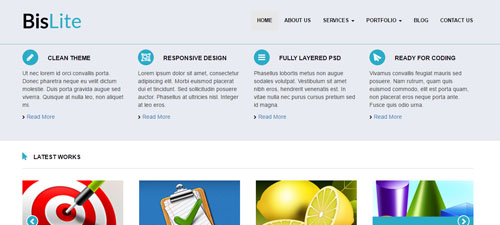
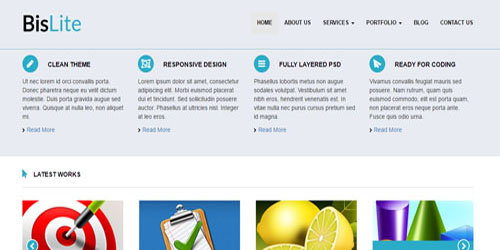
Restyle portfolio section and images

diff --git a/index.html b/index.html
@@ -30,7 +30,7 @@
             <span class="icon-bar"></span>
             <span class="icon-bar"></span>
           </button>
-          <a class="navbar-brand" href="#"><i class="color-red ion-asterisk"></i> Carolina Knoll</a>
+          <a class="navbar-brand" href="#"><i class="color-red fa fa-asterisk"></i> Carolina Knoll</a>
         </div>
 
         <!-- Collect the nav links, forms, and other content for toggling -->
@@ -61,7 +61,7 @@
 
     <section class="about" id="about">
       <div class="container">
-        <h2 class="section-title" data-sr="wait 0.1s, then enter bottom and hustle 50px over 2s"><i class="color-red ion-asterisk"></i> About me</h2>
+        <h2 class="section-title" data-sr="wait 0.1s, then enter bottom and hustle 50px over 2s"><i class="color-red fa fa-asterisk"></i> About me</h2>
 
         <div class="row">
           <div class="col-xs-12 col-sm-4 col-md-4">
@@ -172,7 +172,7 @@
 
     <section class="portfolio" id="portfolio">
       <div class="container">
-        <h2 class="section-title" data-sr="wait 0.1s, then enter bottom and hustle 50px over 2s"><i class="color-red ion-asterisk"></i> My projects</h2>
+        <h2 class="section-title" data-sr="wait 0.1s, then enter bottom and hustle 50px over 2s"><i class="fa fa-asterisk"></i> My projects</h2>
         <p class="section-subtitle text-center" data-sr="wait 0.3s, then enter bottom and hustle 50px over 2s">I'm always trying to improve, and to discover creative and awesome ideas.</p>
         <p class="section-subtitle text-center" data-sr="wait 0.5s, then enter bottom and hustle 50px over 2s">Please take a look at my projects, and check out how we can be creative together.</p>
 
@@ -181,21 +181,21 @@
             <div class="column col-xs-12 col-sm-6 col-md-6" data-sr="wait 0.2s, then enter bottom and hustle 50px over 2s, with opacity 0.5">
               <div class="portfolio-block">
                 <div class="portfolio-image">
-                  <img class="img-responsive" src="img/bislite-project.png" width="500" height="225">
+                  <img class="img-responsive" src="img/bislite-project.jpg" width="500" height="225">
                 </div>
                 <div class="portfolio-title">
-                  <p><i class="color-red ion-asterisk"></i> BisLite - Clean, crisp &amp; memorable icons!</p>
+                  <p><i class="fa fa-asterisk"></i> BisLite - Clean, crisp &amp; memorable icons.</p>
                 </div>
                 <div class="portfolio-description">
-                  <p><i class="color-red ion-paintbucket"></i> PSD template to mobile-first code.</p>
+                  <p><i class="fa fa-edit"></i> PSD template to mobile-first code.</p>
                 </div>
                 <div class="portfolio-tags">
-                  <p><i class="color-red ion-wrench"></i> HTML/SCSS, Bootstrap, OwlCarousel, JavaScript.</p>
+                  <p><i class="fa fa-cogs"></i> HTML/CSS, Bootstrap, OwlCarousel, JavaScript.</p>
                 </div>
                 <div class="portfolio-links">
 
                   <a href="https://github.com/carolinaknoll/bislite" class="view-code">
-                    <p><i class="color-red ion-code"></i> View code (work in progress)</p></a>
+                    <p><i class="fa fa-code"></i> View code (work in progress)</p></a>
                 </div>
               </div>
             </div>
@@ -203,23 +203,23 @@
             <div class="column col-xs-12 col-sm-6 col-md-6" data-sr="wait 0.4s, then enter bottom and hustle 50px over 2s, with opacity 0.5">
               <div class="portfolio-block">
                 <div class="portfolio-image">
-                  <img class="img-responsive" src="img/insight-project.png" width="500" height="225">
+                  <img class="img-responsive" src="img/insight-project.jpg" width="500" height="225">
                 </div>
                 <div class="portfolio-title">
-                  <p><i class="color-red ion-asterisk"></i> Insight - Follow your dreams.</p>
+                  <p><i class="fa fa-asterisk"></i> Insight - Follow your dreams.</p>
                 </div>
 
                 <div class="portfolio-description">
-                  <p><i class="color-red ion-paintbucket"></i> PSD template to desktop-first code.</p>
+                  <p><i class="fa fa-edit"></i> PSD template to desktop-first code.</p>
                 </div>
                 <div class="portfolio-tags">
-                  <p><i class="color-red ion-wrench"></i> HTML/CSS, JavaScript.</p>
+                  <p><i class="fa fa-cogs"></i> HTML/CSS, JavaScript.</p>
                 </div>
                 <div class="portfolio-links">
                   <a href="http://carolinaknoll.github.io/insight/" class="visit-project">
-                    <p><i class="color-red ion-wand"></i> Visit project</p></a>
+                    <p><i class="fa fa-search-plus"></i> Visit project</p></a>
                   <a href="https://github.com/carolinaknoll/insight" class="view-code">
-                    <p><i class="color-red ion-code"></i> View code</p></a>
+                    <p><i class="fa fa-code"></i> View code</p></a>
                 </div>
               </div>
             </div>
@@ -227,22 +227,22 @@
             <div class="column col-xs-12 col-sm-6 col-md-6" data-sr="wait 0.2s, then enter bottom and hustle 50px over 2s, with opacity 0.5">
               <div class="portfolio-block">
                 <div class="portfolio-image">
-                  <img class="img-responsive" src="img/flat-web-project.png" width="500" height="225">
+                  <img class="img-responsive" src="img/flat-web-project.jpg" width="500" height="225">
                 </div>
                 <div class="portfolio-title">
-                  <p><i class="color-red ion-asterisk"></i> Flat Web - Count on us when you need.</p>
+                  <p><i class="fa fa-asterisk"></i> Flat Web - Count on us when you need.</p>
                 </div>
                 <div class="portfolio-description">
-                  <p><i class="color-red ion-paintbucket"></i> PSD template to desktop-first code.</p>
+                  <p><i class="fa fa-edit"></i> PSD template to desktop-first code.</p>
                 </div>
                 <div class="portfolio-tags">
-                  <p><i class="color-red ion-wrench"></i> HTML/CSS, JavaScript.</p>
+                  <p><i class="fa fa-cogs"></i> HTML/CSS, JavaScript.</p>
                 </div>
                 <div class="portfolio-links">
                   <a href="http://carolinaknoll.github.io/flat-web/" class="visit-project">
-                    <p><i class="color-red ion-wand"></i> Visit project</p></a>
+                    <p><i class="fa fa-search-plus"></i> Visit project</p></a>
                   <a href="https://github.com/carolinaknoll/flat-web" class="view-code">
-                    <p><i class="color-red ion-code"></i> View code</p></a>
+                    <p><i class="fa fa-code"></i> View code</p></a>
                 </div>
               </div>
             </div>
@@ -250,22 +250,22 @@
             <div class="column col-xs-12 col-sm-6 col-md-6" data-sr="wait 0.4s, then enter bottom and hustle 50px over 2s, with opacity 0.5">
               <div class="portfolio-block">
                 <div class="portfolio-image">
-                  <img class="img-responsive" src="img/pomodoro-timer-project.png" width="500" height="225">
+                  <img class="img-responsive" src="img/pomodoro-timer-project.jpg" width="500" height="225">
                 </div>
                 <div class="portfolio-title">
-                  <p><i class="color-red ion-asterisk"></i> Online Pomodoro Timer.</p>
+                  <p><i class="fa fa-asterisk"></i> Online Pomodoro Timer.</p>
                 </div>
                 <div class="portfolio-description">
-                  <p><i class="color-red ion-paintbucket"></i> <a href="https://www.freecodecamp.com/challenges/build-a-pomodoro-clock"><span>freeCodeCamp</span></a> frontend project (responsive).</p>
+                  <p><i class="fa fa-edit"></i> <a href="https://www.freecodecamp.com/challenges/build-a-pomodoro-clock"><span>freeCodeCamp</span></a> frontend project (responsive).</p>
                 </div>
                 <div class="portfolio-tags">
-                  <p><i class="color-red ion-wrench"></i> HTML/CSS, JavaScript (jQuery).</p>
+                  <p><i class="fa fa-cogs"></i> HTML/CSS, JavaScript (jQuery).</p>
                 </div>
                 <div class="portfolio-links">
                   <a href="http://carolinaknoll.github.io/pomodoro-timer/" class="visit-project">
-                    <p><i class="color-red ion-wand"></i> Visit project</p></a>
+                    <p><i class="fa fa-search-plus"></i> Visit project</p></a>
                   <a href="https://github.com/carolinaknoll/pomodoro-timer" class="view-code">
-                    <p><i class="color-red ion-code"></i> View code</p></a>
+                    <p><i class="fa fa-code"></i> View code</p></a>
                 </div>
               </div>
             </div>
@@ -273,22 +273,22 @@
             <div class="column col-xs-12 col-sm-6 col-md-6" data-sr="wait 0.2s, then enter bottom and hustle 50px over 2s, with opacity 0.5">
               <div class="portfolio-block">
                 <div class="portfolio-image">
-                  <img class="img-responsive project-image-flat-web" src="img/javascript-calculator-project.png" width="500" height="225">
+                  <img class="img-responsive project-image-flat-web" src="img/javascript-calculator-project.jpg" width="500" height="225">
                 </div>
                 <div class="portfolio-title">
-                  <p><i class="color-red ion-asterisk"></i> Online JavaScript Calculator.</p>
+                  <p><i class="fa fa-asterisk"></i> Online JavaScript Calculator.</p>
                 </div>
                 <div class="portfolio-description">
-                  <p><i class="color-red ion-paintbucket"></i> <a href="https://www.freecodecamp.com/challenges/build-a-javascript-calculator"><span>freeCodeCamp</span></a> frontend project (responsive).</p>
+                  <p><i class="fa fa-edit"></i> <a href="https://www.freecodecamp.com/challenges/build-a-javascript-calculator"><span>freeCodeCamp</span></a> frontend project (responsive).</p>
                 </div>
                 <div class="portfolio-tags">
-                  <p><i class="color-red ion-wrench"></i> HTML/CSS, JavaScript (jQuery).</p>
+                  <p><i class="fa fa-cogs"></i> HTML/CSS, JavaScript (jQuery).</p>
                 </div>
                 <div class="portfolio-links">
                   <a href="http://carolinaknoll.github.io/javascript-calculator/" class="visit-project">
-                    <p><i class="color-red ion-wand"></i> Visit project</p></a>
+                    <p><i class="fa fa-search-plus"></i> Visit project</p></a>
                   <a href="https://github.com/carolinaknoll/javascript-calculator" class="view-code">
-                    <p><i class="color-red ion-code"></i> View code</p></a>
+                    <p><i class="fa fa-code"></i> View code</p></a>
                 </div>
               </div>
             </div>
@@ -296,22 +296,22 @@
             <div class="column col-xs-12 col-sm-6 col-md-6" data-sr="wait 0.4s, then enter bottom and hustle 50px over 2s, with opacity 0.5">
               <div class="portfolio-block">
                 <div class="portfolio-image">
-                  <img class="img-responsive project-image-flat-web" src="img/quote-generator-project.png" width="500" height="225">
+                  <img class="img-responsive project-image-flat-web" src="img/quote-generator-project.jpg" width="500" height="225">
                 </div>
                 <div class="portfolio-title">
-                  <p><i class="color-red ion-asterisk"></i> Lucky Quote Generator.</p>
+                  <p><i class="fa fa-asterisk"></i> Lucky Quote Generator.</p>
                 </div>
                 <div class="portfolio-description">
-                  <p><i class="color-red ion-paintbucket"></i> <a href="https://www.freecodecamp.com/challenges/build-a-random-quote-machine"><span>freeCodeCamp</a></span> frontend project (responsive).</p>
+                  <p><i class="fa fa-edit"></i> <a href="https://www.freecodecamp.com/challenges/build-a-random-quote-machine"><span>freeCodeCamp</a></span> frontend project (responsive).</p>
                 </div>
                 <div class="portfolio-tags">
-                  <p><i class="color-red ion-wrench"></i> HTML/CSS, JavaScript (jQuery).</p>
+                  <p><i class="fa fa-cogs"></i> HTML/CSS, JavaScript (jQuery).</p>
                 </div>
                 <div class="portfolio-links">
                   <a href="http://carolinaknoll.github.io/quote-generator/" class="visit-project">
-                    <p><i class="color-red ion-wand"></i> Visit project</p></a>
+                    <p><i class="fa fa-search-plus"></i> Visit project</p></a>
                   <a href="https://github.com/carolinaknoll/quote-generator" class="view-code">
-                    <p><i class="color-red ion-code"></i> View code</p></a>
+                    <p><i class="fa fa-code"></i> View code</p></a>
                 </div>
               </div>
             </div>
@@ -324,13 +324,13 @@
 
     <section class="contact" id="contact">
       <div class="container">
-        <h2 class="section-title" data-sr="wait 0.1s, then enter bottom and hustle 50px over 2s"><i class="color-red ion-asterisk"></i> Contact</h2>
+        <h2 class="section-title" data-sr="wait 0.1s, then enter bottom and hustle 50px over 2s"><i class="color-red fa fa-asterisk"></i> Contact</h2>
         <p class="section-subtitle text-center" data-sr="wait 0.3s, then enter bottom and hustle 50px over 2s">Let's change the world together (and drink a lot of coffee in the proccess)!</p>
 
         <div class="row">
 
           <div class="contact-social column col-xs-12 col-sm-6 col-md-6" data-sr="wait 0.5s, then enter bottom and hustle 50px over 2s">
-            <h2 class="section-title"><i class="color-red ion-paintbucket"></i> Let's chat!</h2>
+            <h2 class="section-title"><i class="color-red fa fa-edit"></i> Let's chat!</h2>
             <div class="section-box">
               <div class="section-description">
                 <p class="section-subtitle">You can visit me through these social sites:</p>
@@ -359,7 +359,7 @@
           </div>
 
           <div class="contact-art column col-xs-12 col-sm-6 col-md-6" data-sr="wait 0.7s, then enter bottom and hustle 50px over 2s">
-            <h2 class="section-title"><i class="color-red ion-paintbucket"></i> Hello2</h2>
+            <h2 class="section-title"><i class="color-red fa fa-edit"></i> Hello2</h2>
             <div class="section-box">
               <div class="section-description">
                 <p class="section-subtitle">Hello</p>

diff --git a/css/main.css b/css/main.css
@@ -272,17 +272,8 @@ box-shadow: -1px 3px 10px 1px rgba(0,0,0,0.6);
   display: block;
   position: relative;
   padding-top: 80px;
-  background: #ffffe6;
+  background: #86c5f9;
 }
-
-/*
-.portfolio .section-title {
-  color: #8f66ff;
-}
-
-.portfolio .section-subtitle {
-  color: #1b0066;
-} */
 
 .portfolio-projects {
   display: flex;
@@ -295,24 +286,33 @@ box-shadow: -1px 3px 10px 1px rgba(0,0,0,0.6);
 }
 
 .portfolio-block {
-  max-width: 500px;
-  max-height: 400px;
+  max-width: 540px;
+  max-height: 440px;
   width: 100%;
-  border: 2px solid #d8d9d9;
+
   display: block;
   overflow: hidden;
   margin-bottom: 20px;
   background: #d65c7c;
   background: #e0859d;
+  background-color: rgb(242, 242, 242);
+
   -webkit-box-shadow: -1px 3px 20px -1px rgba(0,0,0,0.75);
--moz-box-shadow: -1px 3px 20px -1px rgba(0,0,0,0.75);
-box-shadow: -1px 3px 20px -1px rgba(0,0,0,0.75);
+  -moz-box-shadow: -1px 3px 20px -1px rgba(0,0,0,0.75);
+  box-shadow: -1px 3px 20px -1px rgba(0,0,0,0.75);
 }
 
-.portfolio-block:hover {
+.portfolio .section-title .fa {
+  color: #3ca2f6;
+}
+
+.portfolio-block .fa {
+  color: #a6a6a6;
   transition: 0.5s;
-  transform: scale(1.025);
-  border: 2px solid #e0859d;
+}
+
+.portfolio-block:hover .fa {
+  color: #3ca2f6;
 }
 
 .portfolio-block p {
@@ -323,32 +323,45 @@ box-shadow: -1px 3px 20px -1px rgba(0,0,0,0.75);
 }
 
 .portfolio-image {
-  box-sizing: border-box;
+  box-sizing: border-box; /*
   max-width: 500px;
-  max-height: 225px;
+  max-height: 225px; */
+  max-width: 92%;
+  max-height: 92%;
+
   width: 100%;
   height: 100%;
   background: #555;
-  border-bottom: 1px solid #FFF;
   overflow: hidden; /* Solução paleativa problema img */
+  margin: auto;
+  margin-top: 3%;
+  -webkit-box-shadow: -1px 3px 20px -1px rgba(0,0,0,0.3);
+  -moz-box-shadow: -1px 3px 20px -1px rgba(0,0,0,0.3);
+  box-shadow: -1px 3px 20px -1px rgba(0,0,0,0.3);
+  border: 1px solid #86c5f9;
+  transition: 0.5s;
+}
+
+.portfolio-block:hover .portfolio-image {
+  border: 1px solid #86c5f9;
 }
 
 .portfolio-title {
-  max-width: 500px;
+  max-width: 100%;
   min-height: 20px;
-  border-bottom: 1px solid #FFF;
+  border-bottom: 1px solid #86c5f9;
 }
 
 .portfolio-description {
-  max-width: 500px;
+  max-width: 100%;
   min-height: 20px;
-  border-bottom: 1px solid #FFF;
+  border-bottom: 1px solid #86c5f9;
 }
 
 .portfolio-tags {
-  max-width: 500px;
+  max-width: 100%;
   min-height: 20px;
-  border-bottom: 1px solid #FFF;
+  border-bottom: 1px solid #86c5f9;
 }
 
 .portfolio-links {
@@ -361,22 +374,33 @@ box-shadow: -1px 3px 20px -1px rgba(0,0,0,0.75);
   flex-direction: row;
   text-align: center;
   min-height: 20px;
-  border-bottom: 5px solid #FFF;
+  border-bottom: 5px solid #86c5f9;
+}
+
+.portfolio-image:hover {
+  -webkit-box-shadow: -1px 3px 20px -1px rgba(0,0,0,0.5);
+  -moz-box-shadow: -1px 3px 20px -1px rgba(0,0,0,0.5);
+  box-shadow: -1px 3px 20px -1px rgba(0,0,0,0.5);
+  transform: scale(1.03);
+}
+
+.visit-project,
+.view-code {
+  transition: 0.5s;
 }
 
 .visit-project {
   flex: 1 50%;
-  background: #e0859d;
 }
 
 .view-code {
   flex: 1 50%;
-  background: #e0859d;
 }
 
 .visit-project:hover,
 .view-code:hover {
-  background: #db708d;
+  background: #86c5f9;
+  transition: 0.5s;
 }
 
 /* Contact */
